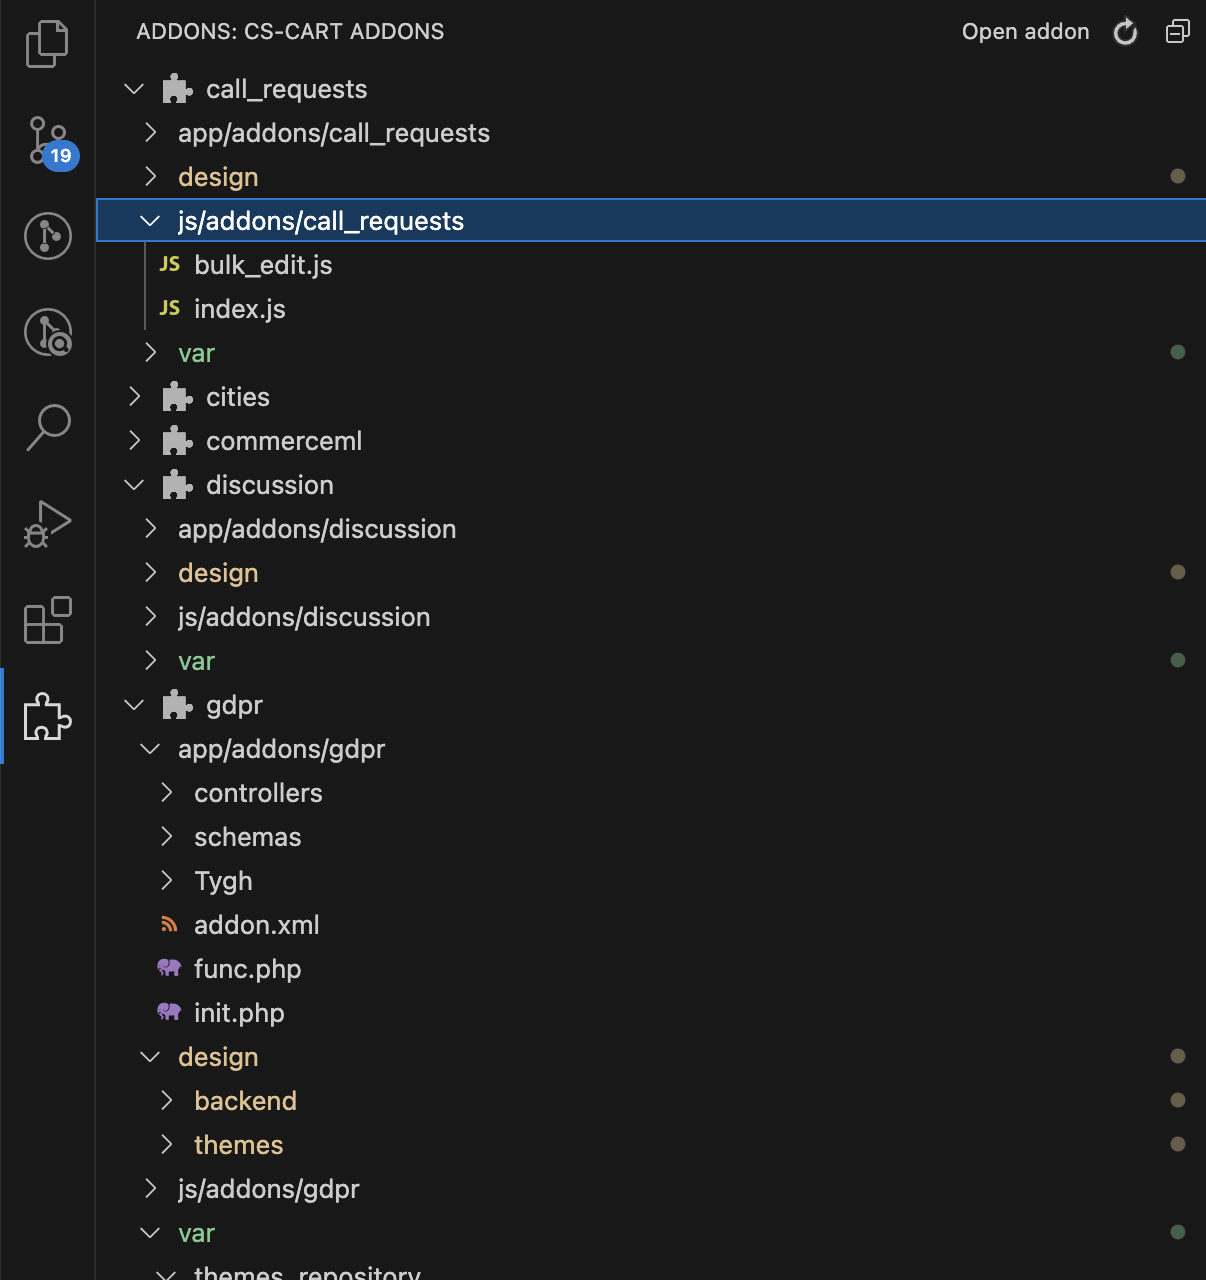
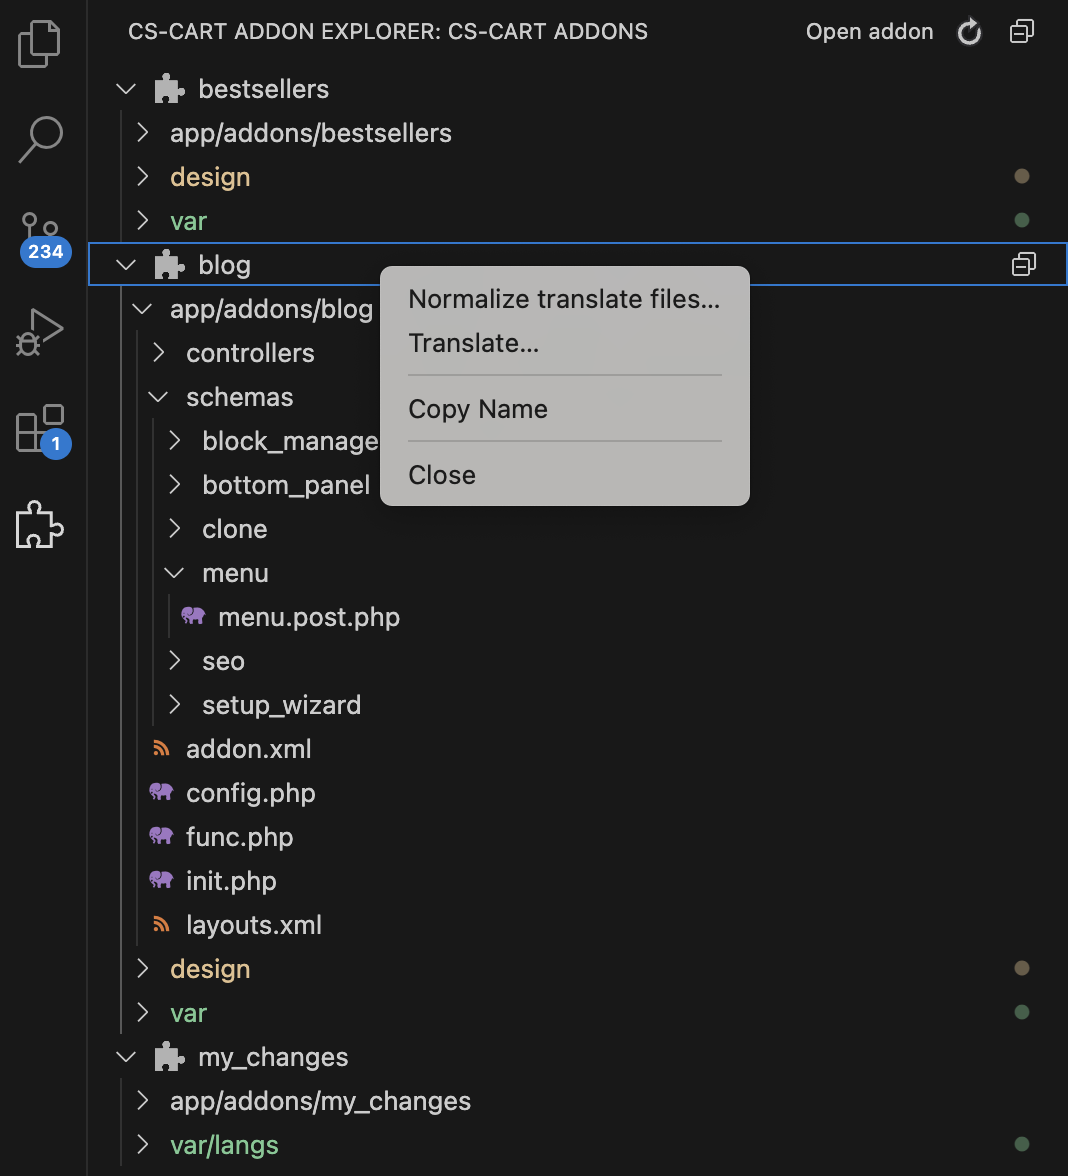
0.0.3 upgrade

diff --git a/CHANGELOG.md b/CHANGELOG.md
@@ -5,6 +5,18 @@ All notable changes to the "cscart-development-helper" extension will be documen
 The format is based on [Keep a Changelog](https://keepachangelog.com/en/1.1.0/),
 and this project adheres to [Semantic Versioning](https://semver.org/spec/v2.0.0.html).
 
+## [0.0.3]
+
+### Added
+
+- Collapse addon files
+- Translate picker description
+
+### Fixed
+
+- Fix normalizing translate files without line break in header
+- Refresh only addon files in some cases
+
 ## [0.0.2]
 
 ### Added

diff --git a/README.md b/README.md
@@ -24,6 +24,11 @@ Latest version of Visual Studio Code
 
 ## Release Notes
 
+### 0.0.3
+
+Fixes for normalizing
+Collapse addon
+
 ### 0.0.2
 
 Fixes for translating script
